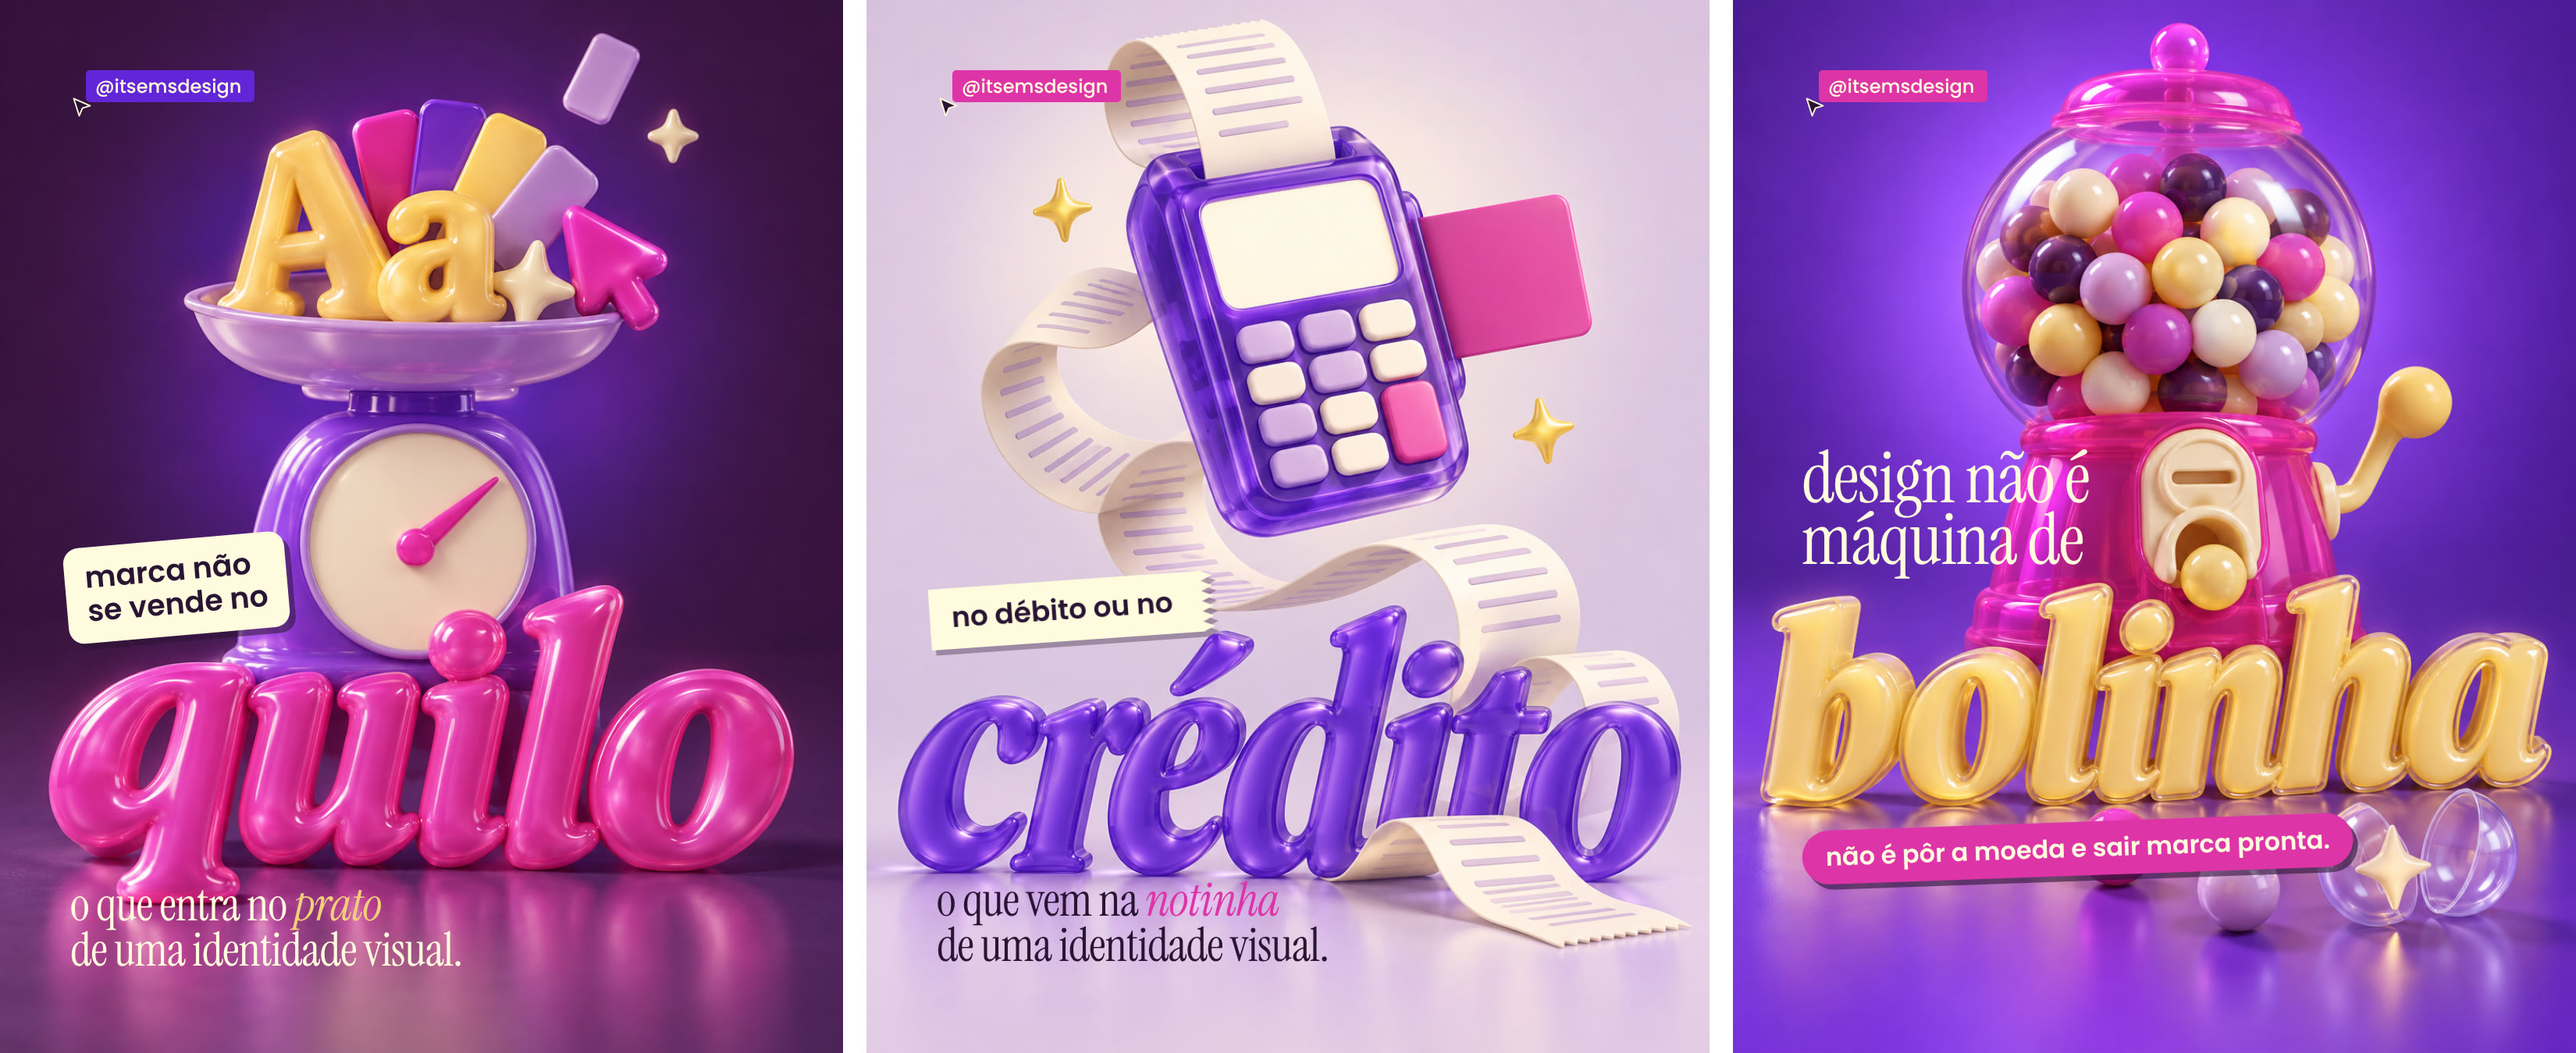
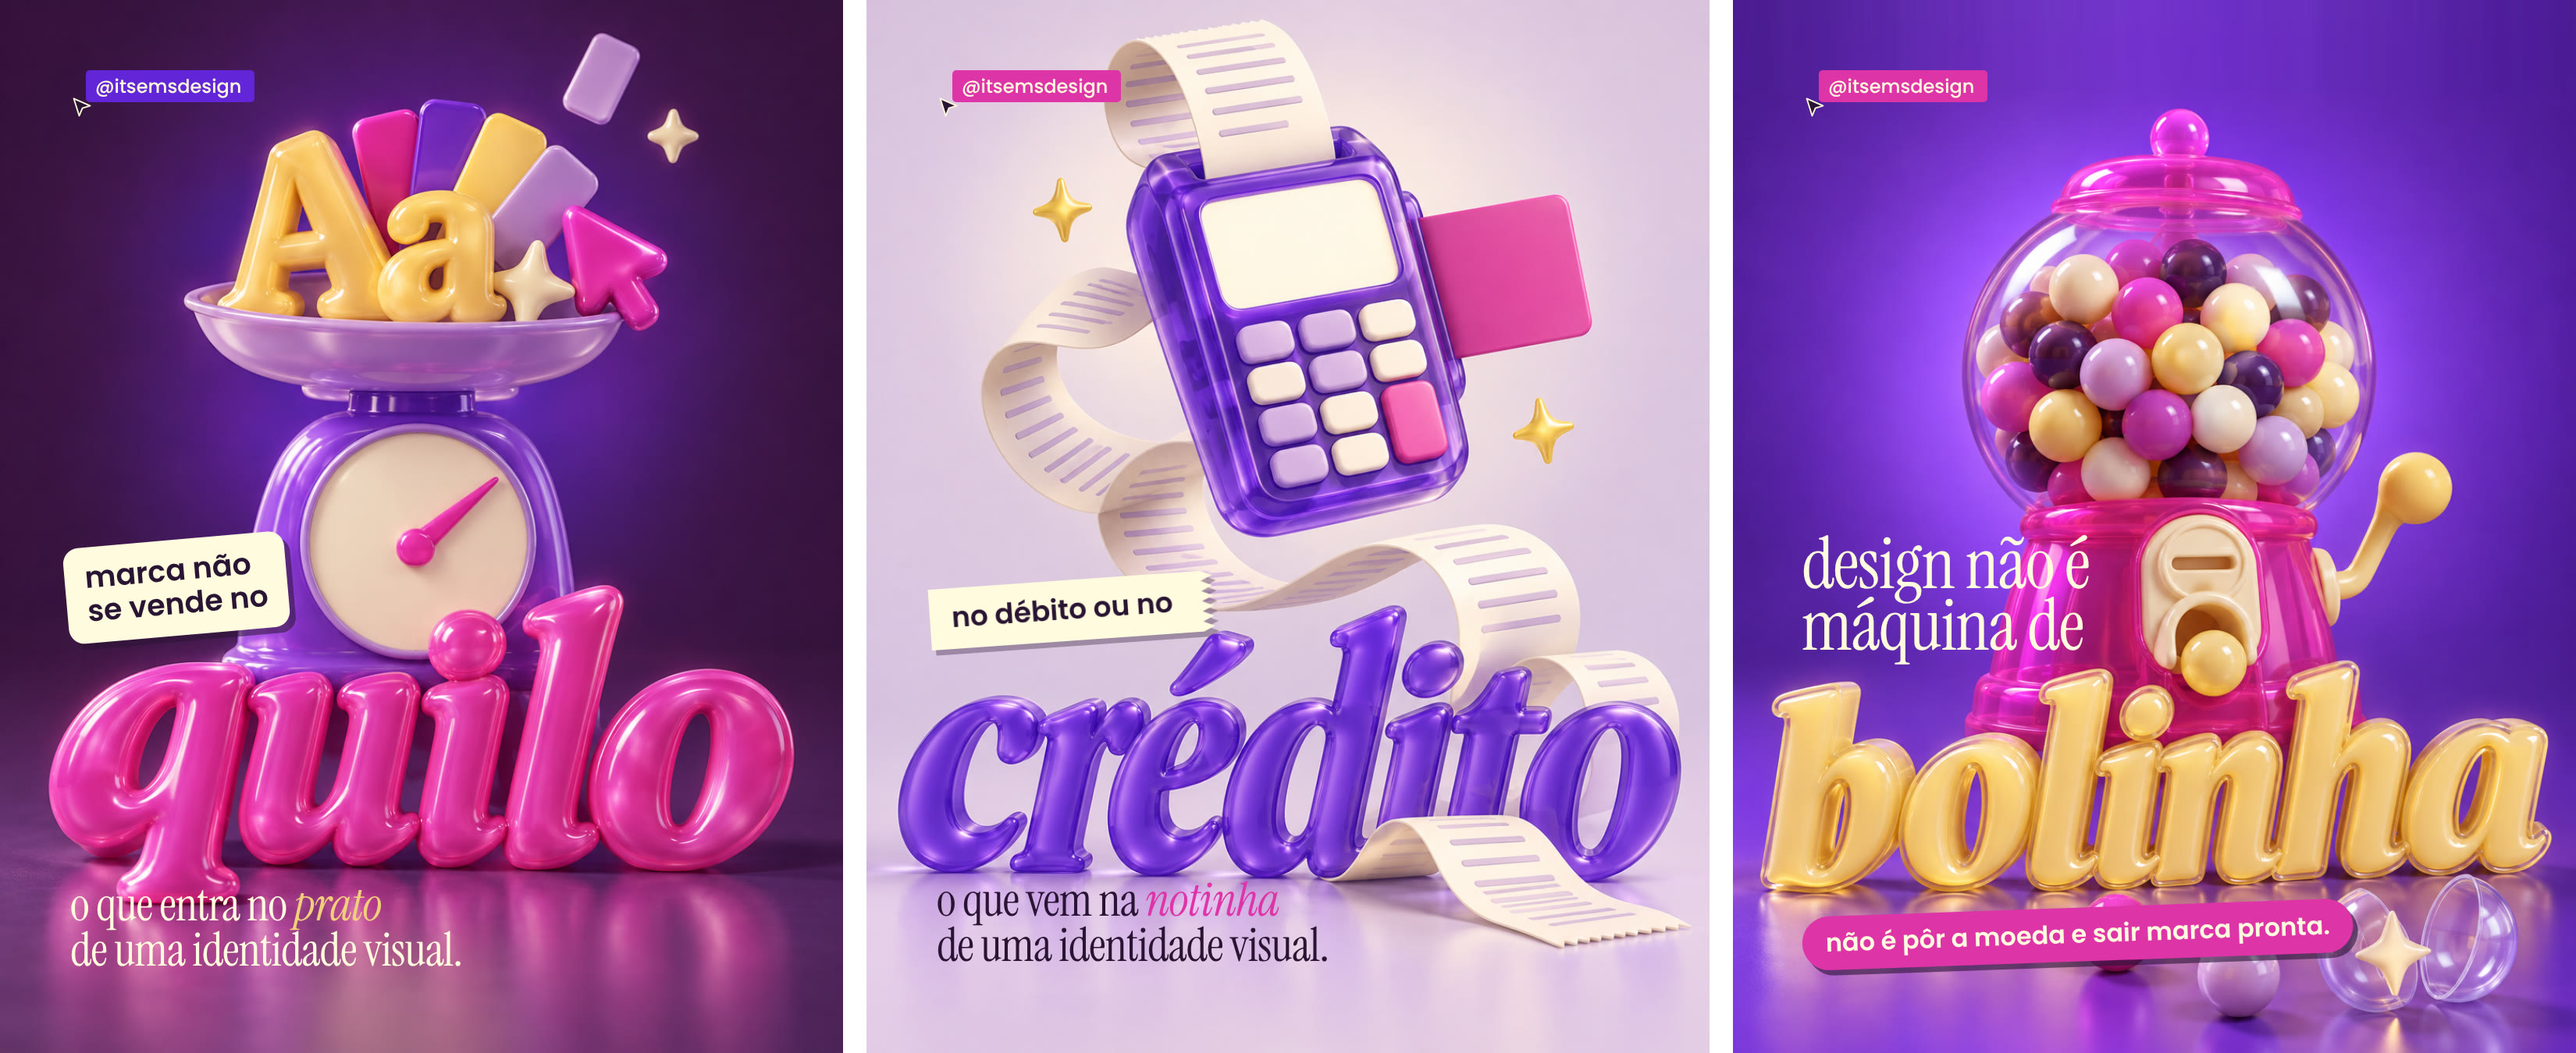
EMS série preço: desce a cena da bolinha e completa o topo
Claude-Session: https://claude.ai/code/session_01CmCiK8vXoD4pXXU5H6drbd

Changed region(s): [[0.6555, 0.0311, 1.0, 1.0]]

diff --git a/Emi/ems-serie-preco/projeto/capa.html b/Emi/ems-serie-preco/projeto/capa.html
@@ -8,7 +8,7 @@
 html,body{margin:0;background:#111}*{box-sizing:border-box}
 #c{position:relative;width:1080px;height:1350px;overflow:hidden;font-family:Poppins;color:#fffbde}
 #c>*{position:absolute}
-.foto{inset:0;width:1080px;height:1350px;object-fit:cover}
+.foto{left:0;top:0;width:1080px;height:1350px;object-fit:cover}
 .tag{font:500 24px/1 Poppins;padding:.36em .7em .36em .5em;border-radius:5px;color:#fffbde;white-space:nowrap}
 .tag svg{position:absolute;left:-19px;bottom:-21px}
 .serie{font:500 19px/1 Poppins;letter-spacing:.1em;text-transform:uppercase;white-space:nowrap}
@@ -40,11 +40,13 @@ const V={
   ${tag(110,90,'#dd34a8')}
   <span class="tira" style="left:84px;top:756px;transform:rotate(-4deg)"><b>no débito ou no</b></span>
   <span class="serif" style="left:90px;top:1126px;font-size:60px;line-height:.96;color:#2a1433">o que vem na <em style="color:#dd34a8">notinha</em><br>de uma identidade visual.</span>`,
- // 03 · manchete em serifa empilhada na palavra + pílula colada embaixo
- bolinha:`<img class="foto" src="cenas/bolinha.png">
+ // 03 · manchete em serifa empilhada na palavra + pílula colada embaixo.
+ // a cena desce 110px (sobrava chão embaixo); o topo é completado esticando a primeira linha do fundo
+ bolinha:`<img class="foto" src="cenas/bolinha.png" style="top:0;clip-path:inset(0 0 calc(100% - 3px) 0);transform-origin:50% 0;transform:scaleY(40)">
+  <img class="foto" src="cenas/bolinha.png" style="top:110px">
   ${tag(110,90,'#dd34a8')}
-  <span class="serif" style="left:88px;top:574px;font-size:92px;line-height:.86">design não é<br>máquina de</span>
-  <span class="cartao" style="left:90px;top:1066px;background:#dd34a8;color:#fffbde;font-size:32px;border-radius:999px;padding:16px 30px 17px;transform:rotate(-2deg);box-shadow:6px 7px 0 rgba(42,20,51,.6)">não é pôr a moeda e sair marca pronta.</span>`,
+  <span class="serif" style="left:88px;top:684px;font-size:92px;line-height:.86">design não é<br>máquina de</span>
+  <span class="cartao" style="left:90px;top:1176px;background:#dd34a8;color:#fffbde;font-size:32px;border-radius:999px;padding:16px 30px 17px;transform:rotate(-2deg);box-shadow:6px 7px 0 rgba(42,20,51,.6)">não é pôr a moeda e sair marca pronta.</span>`,
 };
 const k=new URLSearchParams(location.search).get('v')||'quilo';document.getElementById('c').innerHTML=V[k];
 </script></body></html>
